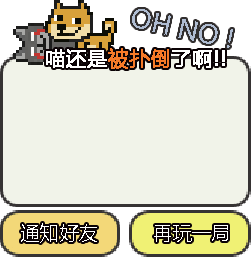
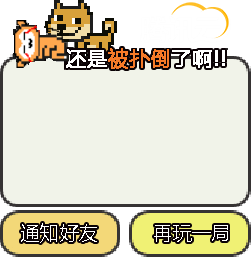
programer VS Pm beta1.0
done!

Changed region(s): [[0.502, 0.0, 0.9482, 0.2179], [0.0558, 0.0623, 0.3068, 0.2802]]

diff --git a/game.min.js b/game.min.js
@@ -2282,14 +2282,14 @@ var c=this._hashTargets[b.__instanceId];if(c)for(var d=c.actions.length,e=0;e<d;
 numberOfRunningActionsInTarget:function(a){return(a=this._hashTargets[a.__instanceId])?a.actions?a.actions.length:0:0},pauseTarget:function(a){if(a=this._hashTargets[a.__instanceId])a.paused=!0},resumeTarget:function(a){if(a=this._hashTargets[a.__instanceId])a.paused=!1},pauseAllRunningActions:function(){for(var a=[],b=this._arrayTargets,c=0;c<b.length;c++){var d=b[c];d&&!d.paused&&(d.paused=!0,a.push(d.target))}return a},resumeTargets:function(a){if(a)for(var b=0;b<a.length;b++)a[b]&&this.resumeTarget(a[b])},
 purgeSharedManager:function(){cc.director.getScheduler().unscheduleUpdateForTarget(this)},_removeActionAtIndex:function(a,b){b.actions[a]!=b.currentAction||b.currentActionSalvaged||(b.currentActionSalvaged=!0);b.actions.splice(a,1);b.actionIndex>=a&&b.actionIndex--;0==b.actions.length&&(this._currentTarget==b?this._currentTargetSalvaged=!0:this._deleteHashElement(b))},_deleteHashElement:function(a){a&&(delete this._hashTargets[a.target.__instanceId],cc.arrayRemoveObject(this._arrayTargets,a),a.actions=
 null,a.target=null)},_actionAllocWithHashElement:function(a){null==a.actions&&(a.actions=[])},update:function(a){for(var b=this._arrayTargets,c,d=0;d<b.length;d++){c=this._currentTarget=b[d];if(!c.paused)for(c.actionIndex=0;c.actionIndex<c.actions.length;c.actionIndex++)if(c.currentAction=c.actions[c.actionIndex],c.currentAction){c.currentActionSalvaged=!1;c.currentAction.step(a*(c.currentAction._speedMethod?c.currentAction._speed:1));if(c.currentActionSalvaged)c.currentAction=null;else if(c.currentAction.isDone()){c.currentAction.stop();
-var e=c.currentAction;c.currentAction=null;this.removeAction(e)}c.currentAction=null}this._currentTargetSalvaged&&0===c.actions.length&&this._deleteHashElement(c)}}});var TOUCHDELAY=150,COLSIZE=24,dogs=[],UI={score:0,pg:0,lastTime:0,multiplier:1,addScore:function(a){var b=Date.now();500>b-this.lastTime?this.multiplier++:this.multiplier=1;this.score+=a*this.multiplier;this.scoreLabel.string=this.score;this.lastTime=b;this.scoreLabel.stopAllActions();this.scoreLabel.setScale(0.5*(this.multiplier-1)+1.5);this.scoreLabel.runAction(cc.scaleTo(0.3,1));this.pg++;this.pgLabel.string=this.pg},end:function(){var a=new cc.Sprite("end.png");cc.director.getRunningScene().addChild(a,
-5);a.setPosition(160,cc.director.getVisibleSize().height/2);var b=12454*Math.random(),b=(34763*UI.score+b)/(5874947+b),c=cc.LabelTTF.create("\u5730\u7403\u592a\u5371\u9669\u6211\u8981\u56de\u55b5\u661f\uff01\n\u606d\u559c\u55b5\u6218\u80dc\u4e86"+UI.pg+"\u4e2a\u6c6a\uff0c\n\u8d85\u8d8a\u4e86"+(0|100*b)+"\uff05\u7684\u597d\u53cb\uff01\n\u83b7\u5f97\u4e86"+UI.score+"\u5206\uff01","\u9ed1\u4f53",20,cc.size(225,105),cc.TEXT_ALIGNMENT_LEFT);document.title=window.wxData.desc="\u55b5\u661f\u5237\u5c4f\uff01\u55b5\u83b7\u5f97"+
-UI.score+"\u5206\uff0c\u5728\u4f17\u55b5\u4e2d\u6392\u540d"+(0|100*b)+"%\uff0c\u5c3c\u80fd\u8d85\u8fc7\u55b5\u5417\uff01";document.title=window.wxFriend.desc="\u6211\u62ff\u4e86"+UI.score+"\u5206\uff0c\u6218\u80dc\u4e86"+UI.pg+"\u4e2a\u6c6a\uff0c\u8d85\u8d8a\u4e86"+(0|100*b)+"\uff05\u7684\u597d\u53cb\uff01\u4f60\u80fd\u8d85\u8fc7\u6211\u5417";c.strokeStyle=cc.color(0,0,0);c.lineWidth=2;a.addChild(c);c.setPosition(a.getContentSize().width/2+2,a.getContentSize().height/2-5);cc.eventManager.addListener({event:cc.EventListener.TOUCH_ONE_BY_ONE,
+var e=c.currentAction;c.currentAction=null;this.removeAction(e)}c.currentAction=null}this._currentTargetSalvaged&&0===c.actions.length&&this._deleteHashElement(c)}}});var TOUCHDELAY=150,COLSIZE=24,dogs=[],UI={score:0,pg:0,lastTime:0,multiplier:1,addScore:function(a){var b=Date.now();500>b-this.lastTime?this.multiplier++:this.multiplier=1;this.score+=a*this.multiplier;this.lastTime=b;this.scoreLabel.stopAllActions();this.scoreLabel.setScale(0.5*(this.multiplier-1)+1.5);this.scoreLabel.runAction(cc.scaleTo(0.3,1));this.pg++;this.pgLabel.string=this.pg},end:function(){var a=new cc.Sprite("end.png");cc.director.getRunningScene().addChild(a,5);a.setPosition(160,cc.director.getVisibleSize().height/
+2);var b=12454*Math.random(),b=(34763*UI.score+b)/(5874947+b),c=cc.LabelTTF.create("\u5730\u7403\u592a\u5371\u9669\u6211\u8981\u56de\u733f\u661f\uff01\n\u606d\u559c\u7a0b\u5e8f\u733f\u6218\u80dc\u4e86"+UI.pg+"\u4e2a\u4ea7\u54c1\u6c6a\uff0c\n\u8d85\u8d8a\u4e86"+(0|100*b)+"\uff05\u7684\u597d\u53cb\uff01\n \u4e0d\u8fc7\u817e\u8baf\u4e91\u8bf4\uff0c\u8981\u76f8\u7231\u4e0d\u8981\u76f8\u6740\uff01","\u9ed1\u4f53",20,cc.size(225,105),cc.TEXT_ALIGNMENT_LEFT);document.title=window.wxData.desc="\u7a0b\u5e8f\u733f\u661f\u5237\u5c4f\uff01\u55b5\u83b7\u5f97"+
+UI.score+"\u5206\uff0c\u5728\u4f17\u733f\u4e2d\u6392\u540d"+(0|100*b)+"%\uff0c\u5c3c\u80fd\u8d85\u8fc7\u55b5\u5417\uff01";document.title=window.wxFriend.desc="\u6211\u62ff\u4e86"+UI.score+"\u5206\uff0c\u6218\u80dc\u4e86"+UI.pg+"\u4e2a\u4ea7\u54c1\u6c6a\uff0c\u8d85\u8d8a\u4e86"+(0|100*b)+"\uff05\u7684\u597d\u53cb\uff01\u4f60\u80fd\u8d85\u8fc7\u6211\u5417";c.strokeStyle=cc.color(0,0,0);c.lineWidth=2;a.addChild(c);c.setPosition(a.getContentSize().width/2+2,a.getContentSize().height/2-5);cc.eventManager.addListener({event:cc.EventListener.TOUCH_ONE_BY_ONE,
 swallowTouches:!0,onTouchBegan:function(a,b){return!0},onTouchEnded:function(a,b){var c=a.getLocation(),g=cc.director.getVisibleSize().height;cc.rectContainsPoint(cc.rect(38,g/2-128,116,41),c)?(c=new ShareUI,cc.director.getRunningScene().addChild(c,15)):cc.rectContainsPoint(cc.rect(167,g/2-128,116,41),c)&&(b.getCurrentTarget().removeFromParent(),Manager.clear(),Manager.init(cc.director.getRunningScene()))},onTouchMoved:function(){return!0}},a)}},Manager={gameTime:0,cat:null,aliveDogs:0,maxAliveDogs:8,
-clear:function(){for(var a=dogs.length-1;0<=a;a--)dogs[a].removeFromParent();dogs=[];this.cat.idle();UI.scoreLabel.setString(0);UI.pgLabel.setString(0)},init:function(a){UI.score=0;UI.lastTime=0;UI.multiplier=0;this.aliveDogs=UI.pg=0;this.gameTime=Date.now();var b=cc.director.getVisibleSize();this.cat||(this.cat=new Cat);this.cat.attr({x:b.width/2,y:b.height/2});a.addChild(this.cat,1);a.scheduleOnce(this.run,1.5);this.addDogesBinded=this.addDogs.bind(this)},run:function(){Doge.getFromPool().reset();
-Doge.getFromPool().reset();this.aliveDogs=2},addDogs:function(){var a=0|2*Math.random()+1;if(this.aliveDogs+a<=this.maxAliveDogs){this.aliveDogs+a;var b=Date.now()-this.gameTime,c=Math.random(),c=c+0.07*(cc.clampf(20,10,b/1E3)-10);0.7<c?Husky.getFromPool().reset():Doge.getFromPool().reset();2===a&&(c=Math.random(),c+=0.07*(cc.clampf(20,10,b/1E3)-10),0.7<c?Husky.getFromPool().reset():Doge.getFromPool().reset())}}},Doge=cc.Sprite.extend({state:1,rotRate:25,rotLeft:!0,target:null,attackDist:80,attackDelay:1.5,
-left:!0,alive:!0,type:0,avail:!1,ctor:function(a){this._super("catnorrisd.png",cc.rect(188,58,66,42));this.attr({anchorX:0.5,anchorY:0,target:a});this.scheduleUpdate();this.walk()},reset:function(){this.alive=!0;this.avail=!1;this.x=320*Math.random();this.y=(cc.director.getVisibleSize().height-70)*Math.random()+20;this.state=1;this.setVisible(!0)},walk:function(){this.stopAllActions();this.state=1;this.setTextureRect(cc.rect(196,2,52,42));this.runAction(cc.sequence(cc.rotateTo(0.12,-3),cc.rotateTo(0.12,
-3)).repeatForever())},charge:function(){this.stopAllActions();this.state=0;this.setTextureRect(cc.rect(188,58,66,42));this.runAction(cc.sequence(cc.scaleTo(0.15,1,0.92),cc.scaleTo(0.15,1,1)).repeatForever());this.scheduleOnce(this.attack,this.attackDelay);this.rotation=0},attack:function(){this.stopAllActions();this.state=2;this.setTextureRect(cc.rect(122,58,64,42));var a=cc.pToAngle(cc.pSub(this.target.getPosition(),this.getPosition())),a=cc.pRotateByAngle(cc.p(this.attackDist,0),cc.p(0,0),a);this.runAction(cc.sequence(cc.callFunc(function(){var a=
+clear:function(){for(var a=dogs.length-1;0<=a;a--)dogs[a].removeFromParent();dogs=[];this.cat.idle();UI.pgLabel.setString(0)},init:function(a){UI.score=0;UI.lastTime=0;UI.multiplier=0;this.aliveDogs=UI.pg=0;this.gameTime=Date.now();var b=cc.director.getVisibleSize();this.cat||(this.cat=new Cat);this.cat.attr({x:b.width/2,y:b.height/2});a.addChild(this.cat,1);a.scheduleOnce(this.run,1.5);this.addDogesBinded=this.addDogs.bind(this)},run:function(){Doge.getFromPool().reset();Doge.getFromPool().reset();
+this.aliveDogs=2},addDogs:function(){var a=0|2*Math.random()+1;if(this.aliveDogs+a<=this.maxAliveDogs){this.aliveDogs+a;var b=Date.now()-this.gameTime,c=Math.random(),c=c+0.07*(cc.clampf(20,10,b/1E3)-10);0.7<c?Husky.getFromPool().reset():Doge.getFromPool().reset();2===a&&(c=Math.random(),c+=0.07*(cc.clampf(20,10,b/1E3)-10),0.7<c?Husky.getFromPool().reset():Doge.getFromPool().reset())}}},Doge=cc.Sprite.extend({state:1,rotRate:25,rotLeft:!0,target:null,attackDist:80,attackDelay:1.5,left:!0,alive:!0,
+type:0,avail:!1,ctor:function(a){this._super("catnorrisd.png",cc.rect(188,58,66,42));this.attr({anchorX:0.5,anchorY:0,target:a});this.scheduleUpdate();this.walk()},reset:function(){this.alive=!0;this.avail=!1;this.x=320*Math.random();this.y=(cc.director.getVisibleSize().height-70)*Math.random()+20;this.state=1;this.setVisible(!0)},walk:function(){this.stopAllActions();this.state=1;this.setTextureRect(cc.rect(196,2,52,42));this.runAction(cc.sequence(cc.rotateTo(0.12,-3),cc.rotateTo(0.12,3)).repeatForever())},
+charge:function(){this.stopAllActions();this.state=0;this.setTextureRect(cc.rect(188,58,66,42));this.runAction(cc.sequence(cc.scaleTo(0.15,1,0.92),cc.scaleTo(0.15,1,1)).repeatForever());this.scheduleOnce(this.attack,this.attackDelay);this.rotation=0},attack:function(){this.stopAllActions();this.state=2;this.setTextureRect(cc.rect(122,58,64,42));var a=cc.pToAngle(cc.pSub(this.target.getPosition(),this.getPosition())),a=cc.pRotateByAngle(cc.p(this.attackDist,0),cc.p(0,0),a);this.runAction(cc.sequence(cc.callFunc(function(){var a=
 this.target.getPosition();a.x>this.x&&!0===this.left?(this.left=!1,this.setFlippedX(!0)):a.x<this.x&&!1===this.left&&(this.left=!0,this.setFlippedX(!1))},this),cc.moveBy(0.5,a).easing(cc.easeExponentialOut()),cc.callFunc(function(){this.walk()},this)))},dead:function(){this.stopAllActions();this.state=4;this.setTextureRect(cc.rect(2,102,70,30));this.scheduleOnce(this.fadeOut,1.25)},fadeOut:function(){this.runAction(cc.sequence(cc.fadeOut(0.5),cc.callFunc(function(){dogs.splice(dogs.indexOf(this),
 1)},this),cc.removeSelf()))},hide:function(){this.setVisible(!1);this.avail=!0},hurt:function(){this.stopAllActions();this.unscheduleAllCallbacks();this.state=3;this.setTextureRect(cc.rect(58,58,62,42));this.alive=!1;this.scheduleOnce(this.dead,0.5);UI.addScore(1);setTimeout(Manager.addDogesBinded,2E3*Math.random()+500)},update:function(a){if(1===this.state){var b=this.target.getPosition(),c=this.getPosition(),d=cc.pToAngle(cc.pSub(b,c));a=cc.pRotateByAngle(cc.p(35*a,0),cc.p(0,0),d);this.setPosition(this.x+
 a.x,this.y+a.y);b.x>this.x&&!0===this.left?(this.left=!1,this.setFlippedX(!0)):b.x<this.x&&!1===this.left&&(this.left=!0,this.setFlippedX(!1));cc.pDistance(b,c)<this.attackDist&&this.charge();this.zIndex=-this.y}else 2===this.state&&cc.pDistance(this.target.getPosition(),this.getPosition())<COLSIZE&&2>this.target.state&&this.target.hurt()}});Doge.getFromPool=function(){var a=new Doge(Manager.cat);cc.director.getRunningScene().addChild(a);a.reset();dogs.push(a);return a};
@@ -2302,13 +2302,13 @@ Husky.getFromPool=function(){var a=new Husky(Manager.cat);cc.director.getRunning
 var Cat=cc.Sprite.extend({state:0,rotRate:25,rotLeft:!0,touchtime:Infinity,targetPos:null,left:!0,attackDist:140,speed:135,screenHeight:0,ctor:function(){this._super("catnorrisd.png",cc.rect(144,148,70,32));this.attr({anchorX:0.5,anchorY:0});this.scheduleUpdate();this.idle();this.screenHeight=cc.director.getVisibleSize().height-100},idle:function(){this.stopAllActions();this.state=0;this.setTextureRect(cc.rect(38,2,40,54));this.runAction(cc.sequence(cc.scaleTo(0.25,1,0.92),cc.scaleTo(0.25,1,1)).repeatForever());
 this.rotation=0},walk:function(){this.stopAllActions();this.state=1;this.setTextureRect(cc.rect(2,2,34,54));this.runAction(cc.sequence(cc.rotateTo(0.12,-3),cc.rotateTo(0.12,3)).repeatForever())},attack:function(){this.stopAllActions();this.state=2;this.setTextureRect(cc.rect(80,2,52,54));this.touchtime=Infinity;var a=cc.pToAngle(cc.pSub(this.targetPos,this.getPosition())),a=cc.pRotateByAngle(cc.p(this.attackDist,0),cc.p(0,0),a);this.runAction(cc.sequence(cc.moveBy(0.5,a).easing(cc.easeExponentialOut()),
 cc.callFunc(function(){this.idle()},this)))},hurt:function(){console.log(1);4!==this.state&&(this.stopAllActions(),this.setTextureRect(cc.rect(134,2,60,34)),setTimeout(UI.end,1E3));this.state=4},update:function(a){var b=this.getPosition();1!=this.state&&3>this.state&&Date.now()-this.touchtime>TOUCHDELAY&&this.walk();if(1===this.state)b=cc.pToAngle(cc.pSub(this.targetPos,b)),b=cc.pRotateByAngle(cc.p(this.speed*a,0),cc.p(0,0),b),this.setPosition(this.x+b.x,this.y+b.y),this.x=cc.clampf(320,0,this.x),
-this.y=cc.clampf(this.screenHeight,0,this.y);else if(2===this.state){this.x=cc.clampf(320,0,this.x);this.y=cc.clampf(this.screenHeight,30,this.y);a=COLSIZE;for(var c=0;c<dogs.length;c++){var d=dogs[c];d.alive&&cc.pDistance(d.getPosition(),b)<a&&(0===d.type?d.hurt():1>d.state&&d.hurt())}}this.zIndex=-this.y}}),MyScene=cc.Scene.extend({cat:null,touchbeginpos:null,onEnter:function(){this._super();cc.director.getWinSize();Manager.init(this);this.scoreLabel=UI.scoreLabel=new cc.LabelTTF("0","\u9ed1\u4f53",
-24,cc.size(150,30),cc.TEXT_ALIGNMENT_LEFT);this.addChild(this.scoreLabel);this.scoreLabel.attr({x:30,y:cc.director.getVisibleSize().height-25,strokeStyle:cc.color(0,0,0),lineWidth:2,color:cc.color(255,150,100),anchorX:0.1});var a=new cc.Sprite("pg.png");this.addChild(a);a.attr({x:230,y:cc.director.getVisibleSize().height-25});UI.pgLabel=new cc.LabelTTF("0","\u9ed1\u4f53",20,cc.size(80,30),cc.TEXT_ALIGNMENT_LEFT);this.addChild(UI.pgLabel);UI.pgLabel.attr({x:290,y:cc.director.getVisibleSize().height-
+this.y=cc.clampf(this.screenHeight,0,this.y);else if(2===this.state){this.x=cc.clampf(320,0,this.x);this.y=cc.clampf(this.screenHeight,30,this.y);a=COLSIZE;for(var c=0;c<dogs.length;c++){var d=dogs[c];d.alive&&cc.pDistance(d.getPosition(),b)<a&&(0===d.type?d.hurt():1>d.state&&d.hurt())}}this.zIndex=-this.y}}),MyScene=cc.Scene.extend({cat:null,touchbeginpos:null,onEnter:function(){this._super();cc.director.getWinSize();Manager.init(this);this.scoreLabel=UI.scoreLabel=new cc.LabelTTF("\u817e\u8baf\u4e91",
+"\u9ed1\u4f53",20,cc.size(150,30),cc.TEXT_ALIGNMENT_LEFT);this.addChild(this.scoreLabel);this.scoreLabel.attr({x:30,y:cc.director.getVisibleSize().height-25,strokeStyle:cc.color(0,0,0),lineWidth:2,color:cc.color(240,255,255),anchorX:0.1});var a=new cc.Sprite("pg.png");this.addChild(a);a.attr({x:230,y:cc.director.getVisibleSize().height-25});UI.pgLabel=new cc.LabelTTF("0","\u9ed1\u4f53",20,cc.size(80,30),cc.TEXT_ALIGNMENT_LEFT);this.addChild(UI.pgLabel);UI.pgLabel.attr({x:290,y:cc.director.getVisibleSize().height-
 30,strokeStyle:cc.color(0,0,0),lineWidth:2,anchorX:0.1});cc.eventManager.addListener({event:cc.EventListener.TOUCH_ONE_BY_ONE,swallowTouches:!0,onTouchBegan:function(a,c){var d=Manager.cat;if(2<=d.state)return!1;d.touchtime=Date.now();d.targetPos=a.getLocation();c.getCurrentTarget().touchbeginpos=a.getLocation();return!0},onTouchMoved:function(a,c){var d=Manager.cat;d.targetPos=a.getLocation();50<cc.pDistance(d.targetPos,c.getCurrentTarget().touchbeginpos)&&d.walk();2>d.state&&a.getLocationX()>d.x?
 (d.left=!1,d.setFlippedX(!0)):(d.left=!0,d.setFlippedX(!1))},onTouchEnded:function(a,c){var d=Manager.cat;4!==d.state&&(Date.now()-d.touchtime<TOUCHDELAY?d.attack():d.idle(),a.getLocationX()>d.x?(d.left=!1,d.setFlippedX(!0)):(d.left=!0,d.setFlippedX(!1)));d.touchtime=Infinity}},this)}});
 window.onload=function(){cc.game.onStart=function(){cc.view.setDesignResolutionSize(320,500,cc.ResolutionPolicy.FIXED_WIDTH);cc._renderContext.webkitImageSmoothingEnabled=!1;cc._renderContext.mozImageSmoothingEnabled=!1;cc._renderContext.imageSmoothingEnabled=!1;cc._renderContext.fillStyle="#afdc4b";cc.LoaderScene.preload(["catnorrisd.png","pg.png","arrow.png","end.png"],function(){cc.director.runScene(new MyScene)},this)};cc.game.run("gameCanvas")};
-var ShareUI=cc.LayerColor.extend({ctor:function(){this._super(cc.color(0,0,0,188),cc.winSize.width,cc.winSize.height);var a=new cc.Sprite("arrow.png");a.anchorX=1;a.anchorY=1;a.x=cc.winSize.width-15;a.y=cc.winSize.height-5;this.addChild(a);a=new cc.LabelTTF('\u8bf7\u70b9\u51fb\u53f3\u4e0a\u89d2\u7684\u83dc\u5355\u6309\u94ae\n\u7136\u540e"\u5206\u4eab\u5230\u670b\u53cb\u5708"\n\u6d4b\u6d4b\u597d\u53cb\u7684\u624b\u6307\u7075\u6d3b\u5ea6\u5427',"\u5b8b\u4f53",18,cc.size(0.7*cc.winSize.width,250),cc.TEXT_ALIGNMENT_CENTER);
-a.x=cc.winSize.width/2;a.y=cc.winSize.height-100;a.anchorY=1;a.shadowColor=cc.color(255,255,255);a.shadowBlur=50;this.addChild(a)},onEnter:function(){this._super();cc.eventManager.addListener({event:cc.EventListener.TOUCH_ONE_BY_ONE,swallowTouches:!0,onTouchBegan:function(a,b){return!0},onTouchEnded:function(a,b){b.getCurrentTarget().removeFromParent()}},this)}});var WeixinApi=function(){return{version:"1.8",ready:function(a){if(a&&"function"==typeof a){var b=this,c=function(){a(b)};"undefined"==typeof window.WeixinJSBridge?document.addEventListener?document.addEventListener("WeixinJSBridgeReady",c,!1):document.attachEvent&&(document.attachEvent("WeixinJSBridgeReady",c),document.attachEvent("onWeixinJSBridgeReady",c)):c()}},shareToTimeline:function(a,b){b=b||{};var c=function(a){WeixinJSBridge.invoke("shareTimeline",{appid:a.appId?a.appId:"",img_url:a.imgUrl,
+var ShareUI=cc.LayerColor.extend({ctor:function(){this._super(cc.color(0,0,0,188),cc.winSize.width,cc.winSize.height);var a=new cc.Sprite("arrow.png");a.anchorX=1;a.anchorY=1;a.x=cc.winSize.width-15;a.y=cc.winSize.height-5;this.addChild(a);a=new cc.LabelTTF('\u8bf7\u70b9\u51fb\u53f3\u4e0a\u89d2\u7684\u83dc\u5355\u6309\u94ae\n\u7136\u540e"\u5206\u4eab\u5230\u670b\u53cb\u5708"\n\uff0c\u9080\u8bf7\u5176\u4ed6\u7a0b\u5e8f\u733f\u6765\u5e2e\u4f60\u5427\uff01',"\u5b8b\u4f53",18,cc.size(0.7*cc.winSize.width,
+250),cc.TEXT_ALIGNMENT_CENTER);a.x=cc.winSize.width/2;a.y=cc.winSize.height-100;a.anchorY=1;a.shadowColor=cc.color(255,255,255);a.shadowBlur=50;this.addChild(a)},onEnter:function(){this._super();cc.eventManager.addListener({event:cc.EventListener.TOUCH_ONE_BY_ONE,swallowTouches:!0,onTouchBegan:function(a,b){return!0},onTouchEnded:function(a,b){b.getCurrentTarget().removeFromParent()}},this)}});var WeixinApi=function(){return{version:"1.8",ready:function(a){if(a&&"function"==typeof a){var b=this,c=function(){a(b)};"undefined"==typeof window.WeixinJSBridge?document.addEventListener?document.addEventListener("WeixinJSBridgeReady",c,!1):document.attachEvent&&(document.attachEvent("WeixinJSBridgeReady",c),document.attachEvent("onWeixinJSBridgeReady",c)):c()}},shareToTimeline:function(a,b){b=b||{};var c=function(a){WeixinJSBridge.invoke("shareTimeline",{appid:a.appId?a.appId:"",img_url:a.imgUrl,
 link:a.link,desc:a.title,title:a.desc,img_width:"120",img_height:"120"},function(a){switch(a.err_msg){case "share_timeline:cancel":b.cancel&&b.cancel(a);break;case "share_timeline:fail":b.fail&&b.fail(a);break;case "share_timeline:confirm":case "share_timeline:ok":b.confirm&&b.confirm(a)}b.all&&b.all(a)})};WeixinJSBridge.on("menu:share:timeline",function(d){b.async&&b.ready?(window._wx_loadedCb_=b.dataLoaded||new Function,0<window._wx_loadedCb_.toString().indexOf("_wx_loadedCb_")&&(window._wx_loadedCb_=
 new Function),b.dataLoaded=function(a){window._wx_loadedCb_(a);c(a)},b.ready&&b.ready(d)):(b.ready&&b.ready(d),c(a))})},shareToWeibo:function(a,b){b=b||{};var c=function(a){WeixinJSBridge.invoke("shareWeibo",{content:a.desc,url:a.link},function(a){switch(a.err_msg){case "share_weibo:cancel":b.cancel&&b.cancel(a);break;case "share_weibo:fail":b.fail&&b.fail(a);break;case "share_weibo:confirm":case "share_weibo:ok":b.confirm&&b.confirm(a)}b.all&&b.all(a)})};WeixinJSBridge.on("menu:share:weibo",function(d){b.async&&
 b.ready?(window._wx_loadedCb_=b.dataLoaded||new Function,0<window._wx_loadedCb_.toString().indexOf("_wx_loadedCb_")&&(window._wx_loadedCb_=new Function),b.dataLoaded=function(a){window._wx_loadedCb_(a);c(a)},b.ready&&b.ready(d)):(b.ready&&b.ready(d),c(a))})},shareToFriend:function(a,b){b=b||{};var c=function(a){WeixinJSBridge.invoke("sendAppMessage",{appid:a.appId?a.appId:"",img_url:a.imgUrl,link:a.link,desc:a.desc,title:a.title,img_width:"120",img_height:"120"},function(a){switch(a.err_msg){case "send_app_msg:cancel":b.cancel&&

diff --git a/catnorris.js b/catnorris.js
@@ -17,7 +17,8 @@ var UI = {
             this.multiplier = 1;
         }
         this.score += s*this.multiplier;
-        this.scoreLabel.string = this.score;
+        //this.scoreLabel.string = this.score;
+        //comment by hejia12 on 20160107
         this.lastTime = now;
         this.scoreLabel.stopAllActions();
         this.scoreLabel.setScale((this.multiplier-1)*0.5+1.5);
@@ -34,9 +35,9 @@ var UI = {
         var rand =  Math.random()*12454;
         var rank = 0|((hiscore - UI.score) * 34763  + rand);
         var percent = (UI.score *34763 + rand) / (hiscore*34763+rand);
-        var lb = cc.LabelTTF.create("地球太危险我要回喵星！\n恭喜喵战胜了"+ UI.pg +"个汪，\n超越了"+(0|(percent*100))+"％的好友！\n获得了"+UI.score+"分！", "黑体", 20, cc.size(225,105), cc.TEXT_ALIGNMENT_LEFT);
-        document.title = window.wxData.desc = "喵星刷屏！喵获得"+UI.score+"分，在众喵中排名"+(0|(percent*100))+"%，尼能超过喵吗！";
-        document.title = window.wxFriend.desc = "我拿了"+UI.score+"分，战胜了"+ UI.pg +"个汪，超越了"+(0|(percent*100))+"％的好友！你能超过我吗";
+        var lb = cc.LabelTTF.create("地球太危险我要回猿星！\n恭喜程序猿战胜了"+ UI.pg +"个产品汪，\n超越了"+(0|(percent*100))+"％的好友！\n 不过腾讯云说，要相爱不要相杀！", "黑体", 20, cc.size(225,105), cc.TEXT_ALIGNMENT_LEFT);
+        document.title = window.wxData.desc = "程序猿星刷屏！喵获得"+UI.score+"分，在众猿中排名"+(0|(percent*100))+"%，尼能超过喵吗！";
+        document.title = window.wxFriend.desc = "我拿了"+UI.score+"分，战胜了"+ UI.pg +"个产品汪，超越了"+(0|(percent*100))+"％的好友！你能超过我吗";
             lb.strokeStyle = cc.color(0,0,0);
         lb.lineWidth = 2;
         sp.addChild(lb);
@@ -82,7 +83,8 @@ var Manager = {
         }
         dogs = [];
         this.cat.idle();
-        UI.scoreLabel.setString(0);
+        //UI.scoreLabel.setString(0);
+        //hejia12 comment on 20160107
         UI.pgLabel.setString(0);
     },
     init:function(scene){
@@ -567,14 +569,14 @@ var MyScene = cc.Scene.extend({
 
         Manager.init(this);
 
-        this.scoreLabel =  UI.scoreLabel = new cc.LabelTTF("0", "黑体", 24, cc.size(150, 30), cc.TEXT_ALIGNMENT_LEFT);
+        this.scoreLabel =  UI.scoreLabel = new cc.LabelTTF("腾讯云", "黑体", 20, cc.size(150, 30), cc.TEXT_ALIGNMENT_LEFT);
         this.addChild(this.scoreLabel);
         this.scoreLabel.attr({
             x:30,
             y:cc.director.getVisibleSize().height - 25,
             strokeStyle: cc.color(0,0,0),
             lineWidth: 2,
-            color: cc.color(255,150,100),
+            color: cc.color(240,255,255),
             anchorX:0.1
         });
         var pg = new cc.Sprite("pg.png");
@@ -682,7 +684,7 @@ var ShareUI = cc.LayerColor.extend({
         arrow.y = cc.winSize.height - 5;
         this.addChild(arrow);
 
-        var label = new cc.LabelTTF("请点击右上角的菜单按钮\n然后\"分享到朋友圈\"\n测测好友的手指灵活度吧", "宋体", 18, cc.size(cc.winSize.width*0.7, 250), cc.TEXT_ALIGNMENT_CENTER);
+        var label = new cc.LabelTTF("请点击右上角的菜单按钮\n然后\"分享到朋友圈\"\n，邀请其他程序猿来帮你吧！", "宋体", 18, cc.size(cc.winSize.width*0.7, 250), cc.TEXT_ALIGNMENT_CENTER);
         label.x = cc.winSize.width/2;
         label.y = cc.winSize.height - 100;
         label.anchorY = 1;

diff --git a/index.html b/index.html
@@ -2,7 +2,7 @@
 <html>
 <head>
     <meta charset="utf-8">
-    <title>贺嘉定制版-来自喵星的你</title>
+    <title>程序猿大战产品汪 by 腾讯云贺嘉</title>
     <link rel="icon" type="image/GIF" href="res/favicon.ico"/>
     <meta name="viewport" content="width=321, user-scalable=no"/>
     <meta name="apple-mobile-web-app-capable" content="yes"/>
@@ -21,7 +21,10 @@
     </style>
 
 </head>
-<body>	 
+<!--CNZZ站长统计 by hejia12-->
+<script type="text/javascript">var cnzz_protocol = (("https:" == document.location.protocol) ? " https://" : " http://");document.write(unescape("%3Cspan id='cnzz_stat_icon_1257126385'%3E%3C/span%3E%3Cscript src='" + cnzz_protocol + "s4.cnzz.com/z_stat.php%3Fid%3D1257126385' type='text/javascript'%3E%3C/script%3E"));</script>
+<!--CNZZ站长统计 by hejia12-->
+<body>
     <canvas id="gameCanvas" width="320" height="500"></canvas>
     <script type="text/javascript" src="WeixinApi.js"></script>
     <script>
@@ -35,17 +38,17 @@
 
         window.wxData = {
             "appId": "", // 服务号可以填写appId
-            "imgUrl":'http://app9.download.anzhuoshangdian.com/cat/icon.png',
-            "link":'http://app9.download.anzhuoshangdian.com/cat/',
-            "desc":"最近微信刷屏的游戏，喵的太贱了，快来感受下吧",
-            "title":"最近微信刷屏的游戏，喵的太贱了，快来感受下吧"
+            "imgUrl":'icon.png',
+            "link":'http://qcloud.com/',
+            "desc":"最近微信刷屏的游戏，程序猿大战产品汪，快来感受下吧",
+            "title":"最近微信刷屏的游戏，程序猿大战产品汪，快来感受下吧"
         };
         window.wxFriend = {
             "appId": "", // 服务号可以填写appId
-            "imgUrl":'http://app9.download.anzhuoshangdian.com/cat/icon.png',
-            "link":'http://app9.download.anzhuoshangdian.com/cat/',
-            "desc":'最近微信刷屏的游戏，喵的太贱了，快来感受下吧',
-            "title":"最近微信刷屏的游戏《来自喵星的你》，喵的太贱了，快来感受下吧"
+            "imgUrl":'icon.png',
+            "link":'http://qcloud.com/',
+            "desc":'最近微信刷屏的游戏，程序猿大战产品汪，快来感受下吧',
+            "title":"最近微信刷屏的游戏《程序猿大战产品汪》，快来感受下吧"
         };
         WeixinApi.ready(function(Api) {
             var wxCallbacks = {
